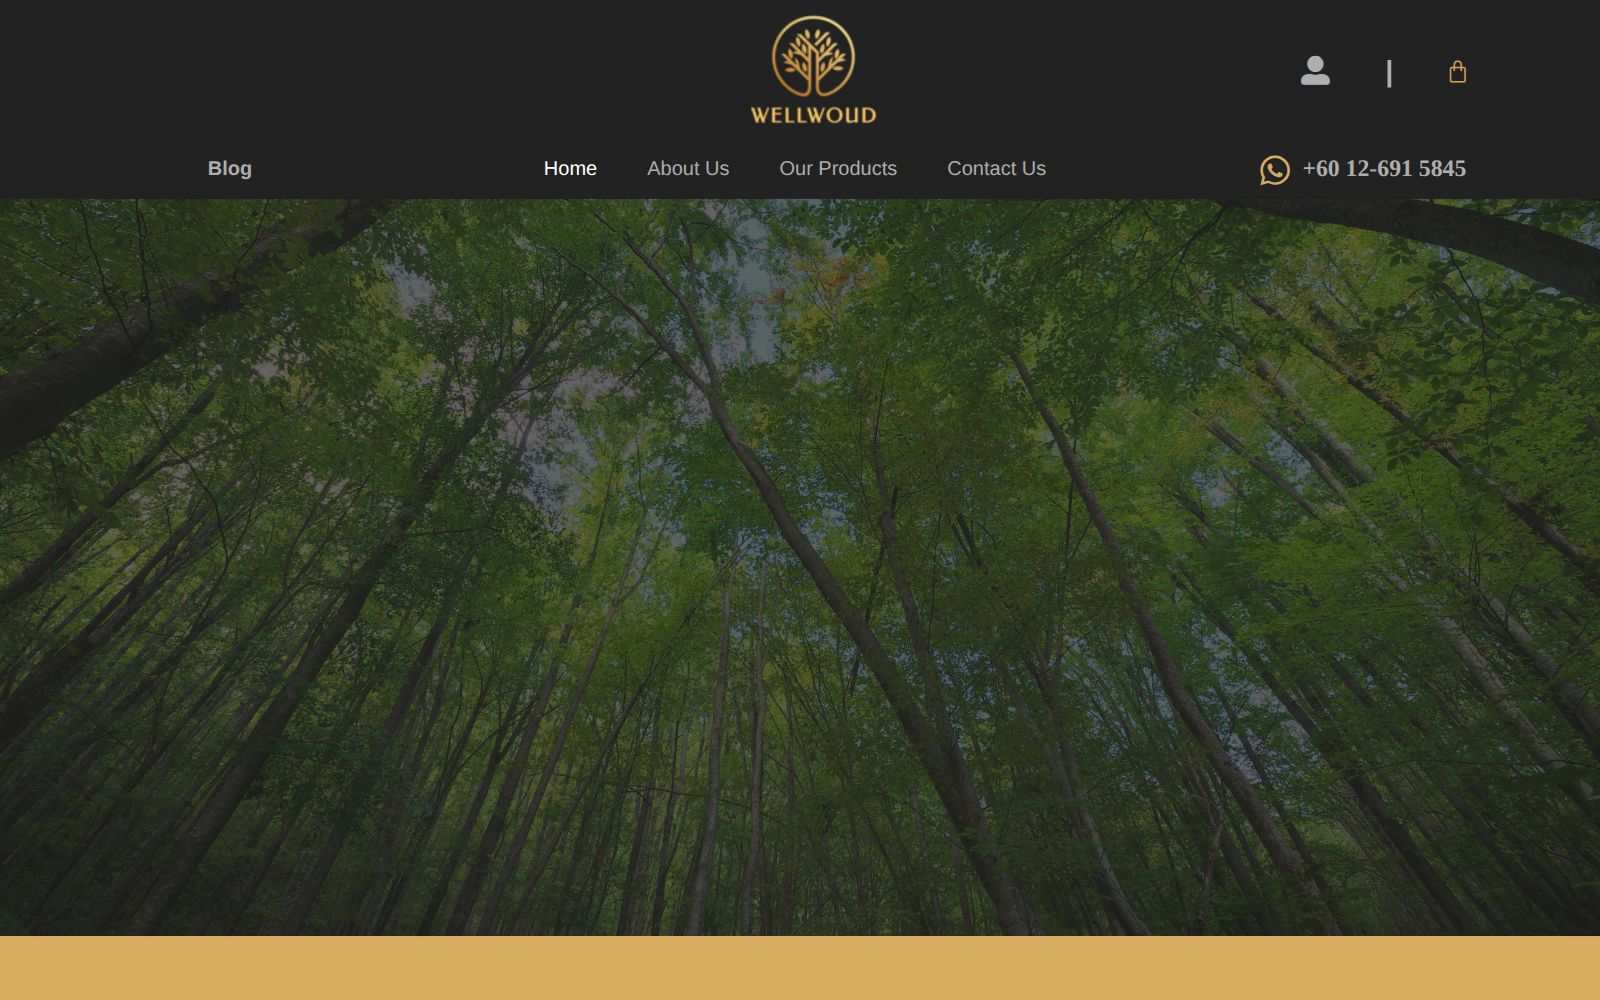
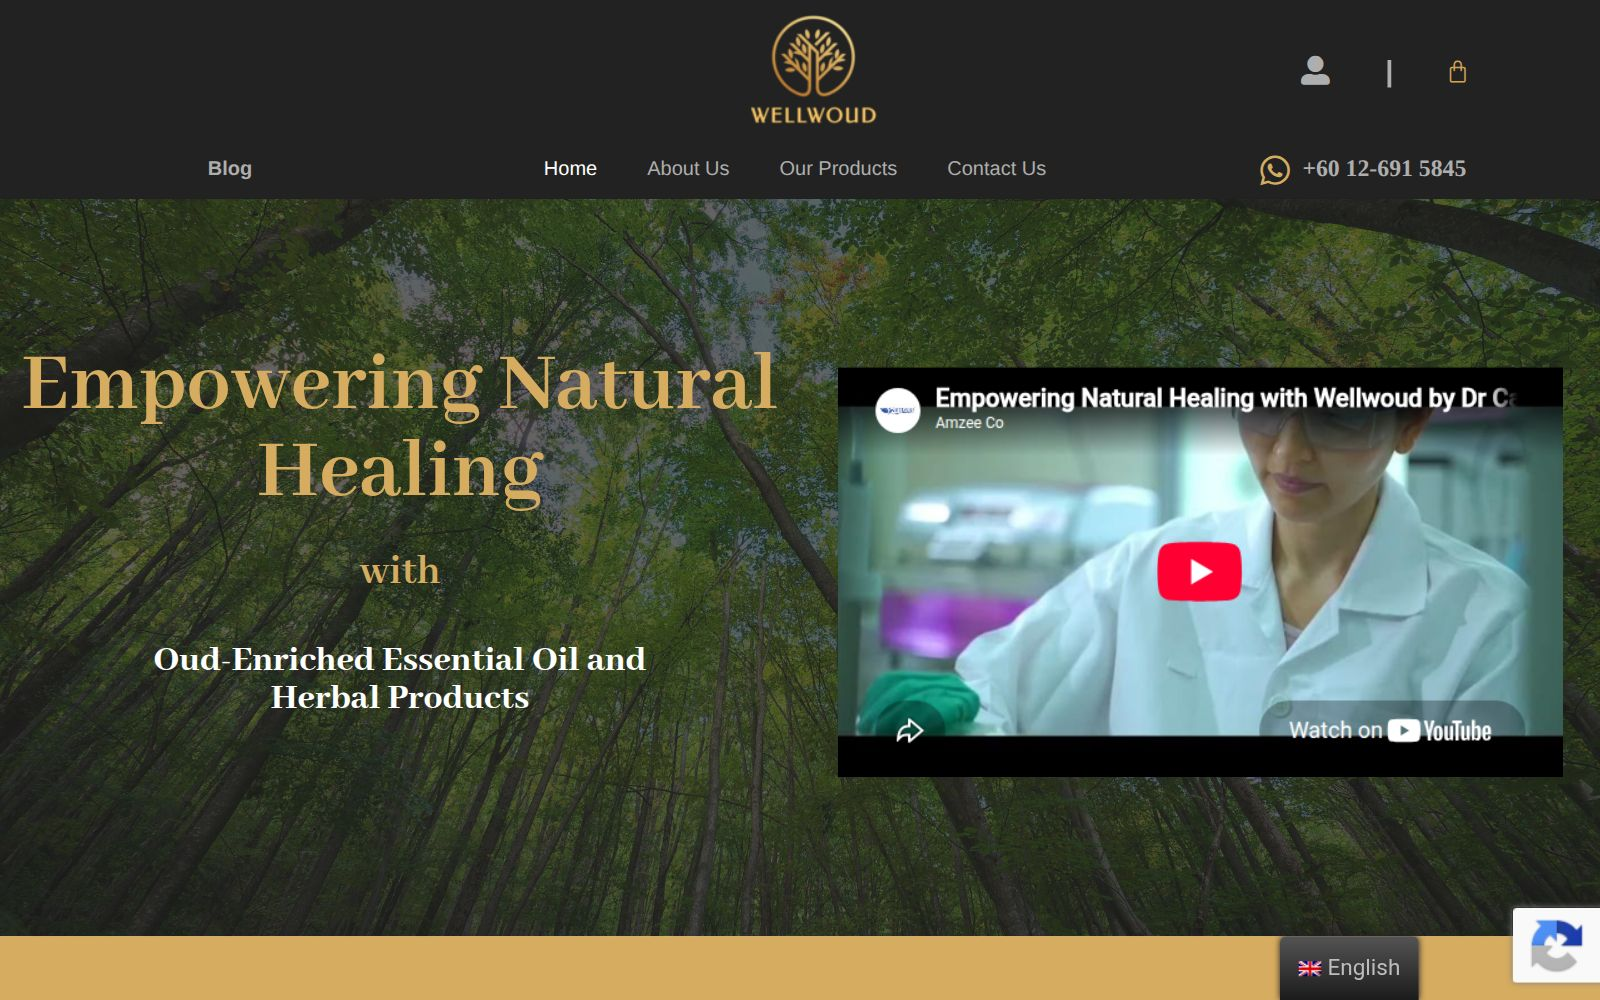
Add the Imaginex screenshot with other users' names blurred
Blur two other users' names and avatars, trim the browser scrollbar and
save as a 1600px JPEG. Retake the Wellwoud screenshot so its hero text
has finished animating in.

diff --git a/src/content/projects/zoewebs-client-sites.md b/src/content/projects/zoewebs-client-sites.md
@@ -22,6 +22,6 @@ Selected sites:
 
 ![Home page of cnc.com.my, a metal machining company with the headline Celebrating The Best Machining Vendor](/uploads/zoewebs-cnc.jpg)
 
-![Home page of wellwoud.com, an online shop for aroma products with a gold tree logo above a forest photo](/uploads/zoewebs-wellwoud.jpg)
+![Home page of wellwoud.com, an aroma products shop with the headline Empowering Natural Healing over a forest photo, beside an embedded video](/uploads/zoewebs-wellwoud.jpg)
 
 I also ran online training for clients in Malaysia, China and the United States, in English and Chinese, and helped new interns get started with WordPress and Elementor.

diff --git a/src/content/projects/imaginex.md b/src/content/projects/imaginex.md
@@ -5,6 +5,8 @@ year: 2023
 context: Personal project
 stack: [React, Tailwind CSS, Sanity, Netlify]
 liveUrl: https://paul-imaginex.netlify.app
+cover: /uploads/imaginex.jpg
+coverAlt: Imaginex home feed, a Pinterest-style grid of user images with a category sidebar for cars, food, travel, cats and more
 featured: true
 order: 3
 ---
